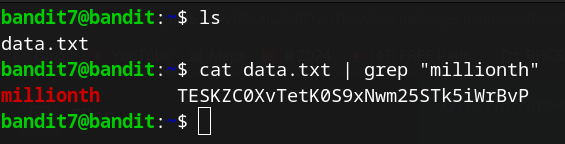
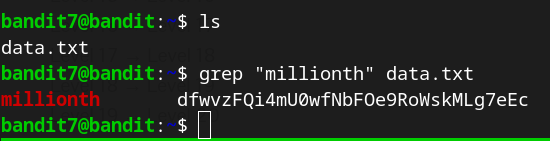
Update passwords for bandit (Level 6 --> Level 10)

Changed region(s): [[0.0, 0.4255, 1.0, 1.0], [0.0, 0.0567, 0.4018, 0.227], [0.0, 0.2553, 0.1855, 0.3972]]

diff --git a/Bandit.md b/Bandit.md
@@ -86,21 +86,21 @@ To find the required file, we need to use the **find** command, starting the sea
 ------------------------------------------------------------------
 ### Level 7 &rarr; Level 8
 The password for the next level is in the **data.txt** file next to the word **millionth**.  
-I printed out the content of the file and piped the output to the **grep** command, looking for the word **millionth**.  
+I printed the line containing the word **millionth** using the **grep** command.  
   
 ![bandit7](/Img/Bandit/bandit07.png)  
   
     User: bandit8
-    Password: TESKZC0XvTetK0S9xNwm25STk5iWrBvP
+    Password: dfwvzFQi4mU0wfNbFOe9RoWskMLg7eEc
 
 ------------------------------------------------------------------
 ### Level 8 &rarr; Level 9
-The password is in a file in the home directory named **data.txt**, the file contains many lines but the password is the only line of text that appears only once. I therefore sorted the file in ascending alphabetical order, then printed only the unique lines, obtaining an output of a single line containing the password:  
+The password is in a file in the home directory named **data.txt**, the file contains many lines but the password is the only line of text that appears only once. I therefore sorted the file in ascending alphanumerical order, then printed only the unique lines, obtaining an output of a single line containing the password:  
   
 ![bandit8](/Img/Bandit/bandit08.png)
 
     User bandit9
-    Password: EN632PlfYiZbn3PhVK3XOGSlNInNE00t
+    Password: 4CKMh1JI91bUIZZPXDqGanal4xvAg0JM
   
 ------------------------------------------------------------------
 ### Level 9 &rarr; Level 10
@@ -109,6 +109,6 @@ The password is located in the file **data.txt**, which doesn't contain text but
 ![bandit9](/Img/Bandit/bandit09.png)  
   
     User: bandit10  
-    Password: G7w8LIi6J3kTb8A7j9LgrywtEUlyyp6s  
+    Password: FGUW5ilLVJrxX9kMYMmlN4MgbpfMiqey  
   
 ------------------------------------------------------------------
